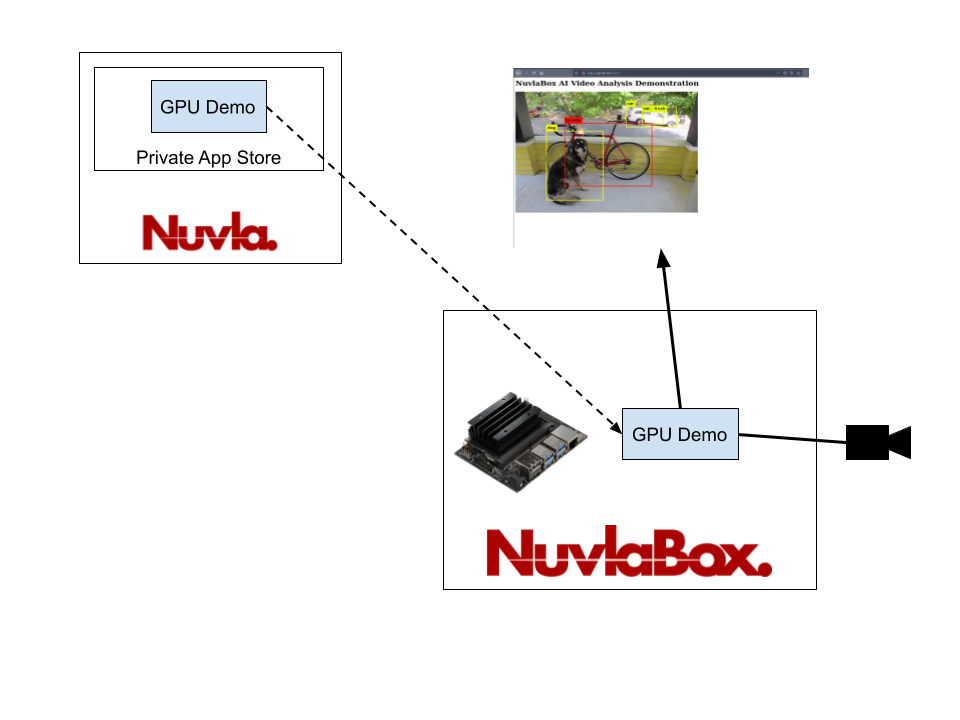
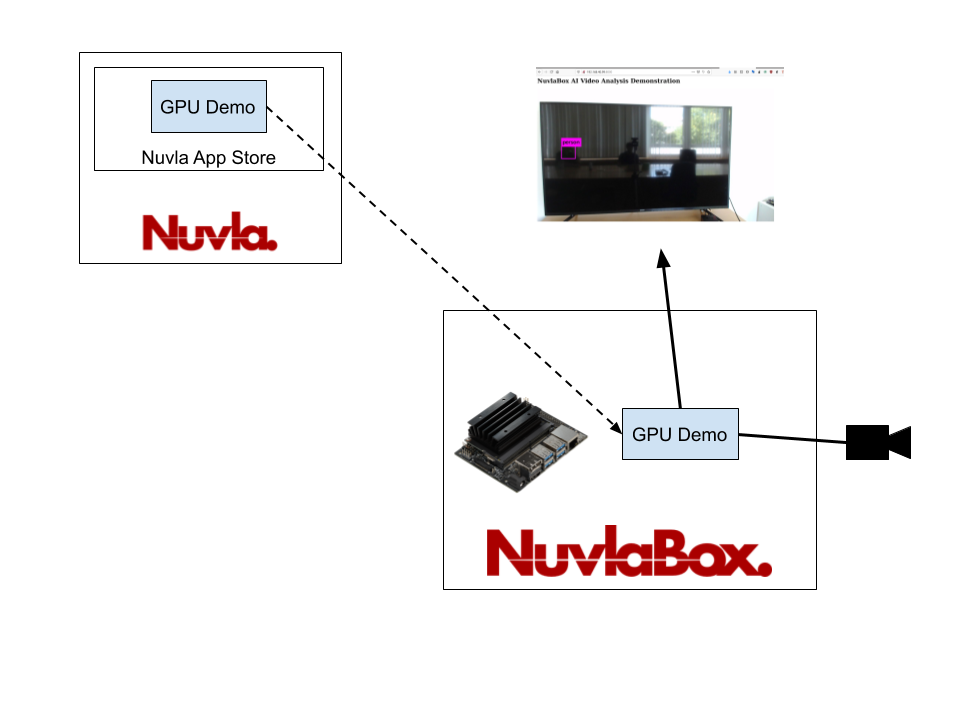
changes to the images

Changed region(s): [[0.5312, 0.0917, 0.8438, 0.3056], [0.125, 0.2139, 0.3125, 0.2444]]

diff --git a/docs/tutorials/nuvlabox/gpu-demo.md b/docs/tutorials/nuvlabox/gpu-demo.md
@@ -91,7 +91,7 @@ Afterwards, it will launch a web server with the video feed, and the app's dynam
 And the interface should look something like this:
 
 
-![gpuDemo](/assets/img/gpu-demo-interface.png){: :center}
+![gpuDemo](/assets/img/output-gpu-demo.png){: :center}
 
 You should see the output of the camera.
 
